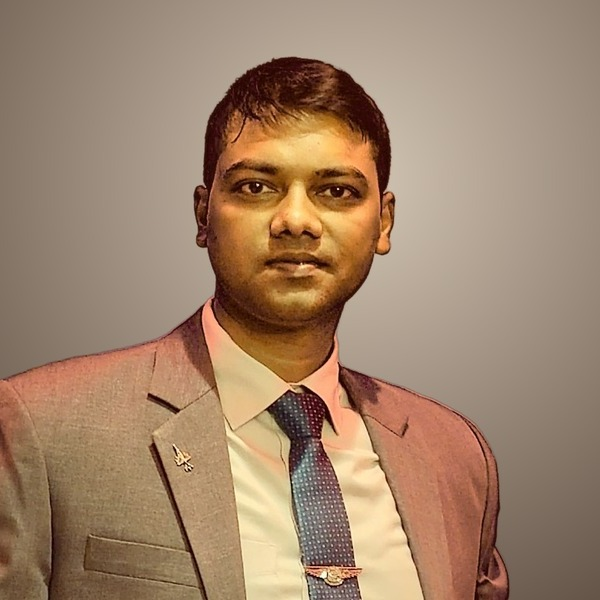
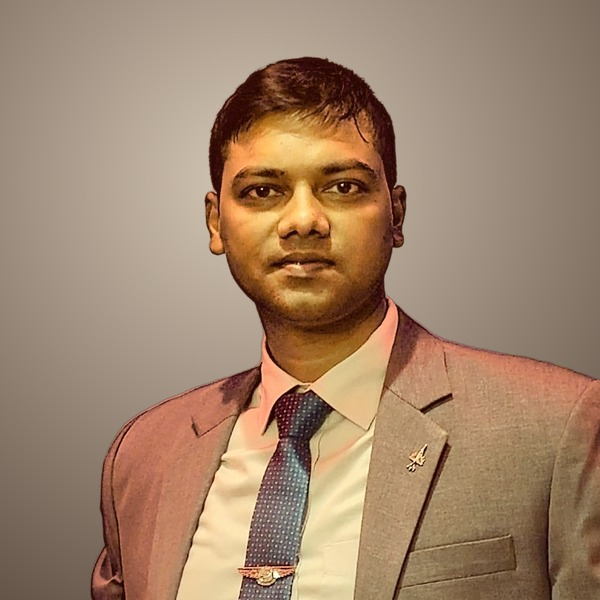
Restore original photo orientation; add country flags
Claude-Session: https://claude.ai/code/session_019jMkLRKNUUkXUcJ27jR6mV

diff --git a/app.py b/app.py
@@ -266,6 +266,8 @@ html(
         background: #fff; border: 1px solid var(--line);
       }
       .card .chip { background: var(--paper); }
+      .flag-chip { display: inline-flex; align-items: center; gap: 0.45rem; }
+      .flag-chip img { width: 20px; height: 14px; object-fit: cover; border-radius: 2px; box-shadow: 0 0 0 1px rgba(0,0,0,0.08); }
       .skill-group h4 { font-size: 0.78rem; letter-spacing: 0.16em; text-transform: uppercase; color: var(--muted); margin: 0 0 0.6rem 0; font-weight: 600; }
 
       /* Certifications */
@@ -523,12 +525,17 @@ with tabs["More About Me"]:
         for l, v in LANGUAGES.items()
     )
     affs = "".join(f"<p>{escape(a)}</p>" for a in AFFILIATIONS)
+    flags = "".join(
+        f'<span class="chip flag-chip"><img src="https://flagcdn.com/w40/{escape(code)}.png" alt="" '
+        f'width="20" height="14">{escape(country)}</span>'
+        for country, code in COUNTRIES_VISITED.items()
+    )
     html(
         f"""
         <div class="grid">
           <div class="card skill-group"><h4>Languages</h4>{langs}</div>
           <div>
-            <div class="card skill-group" style="margin-bottom:1rem"><h4>Countries visited</h4>{chips(COUNTRIES_VISITED)}</div>
+            <div class="card skill-group" style="margin-bottom:1rem"><h4>Countries visited</h4>{flags}</div>
             <div class="card skill-group"><h4>Affiliations</h4>{affs}</div>
           </div>
         </div>

diff --git a/profile_data.py b/profile_data.py
@@ -184,7 +184,8 @@ AFFILIATIONS = ["Member, Institution of Engineers, Bangladesh (IEB)"]
 
 LANGUAGES = {"English": "Advanced (C1)", "Arabic": "Beginner (A1)", "French": "Beginner (A1)", "Chinese": "Elementary"}
 
-COUNTRIES_VISITED = ["China", "USA", "Canada", "Qatar", "Mali", "Djibouti"]
+# Country name -> two-letter ISO code (used to show the flag)
+COUNTRIES_VISITED = {"China": "cn", "USA": "us", "Canada": "ca", "Qatar": "qa", "Mali": "ml", "Djibouti": "dj"}
 
 # Each hobby card expands on click to show the achievement
 HOBBIES = {
